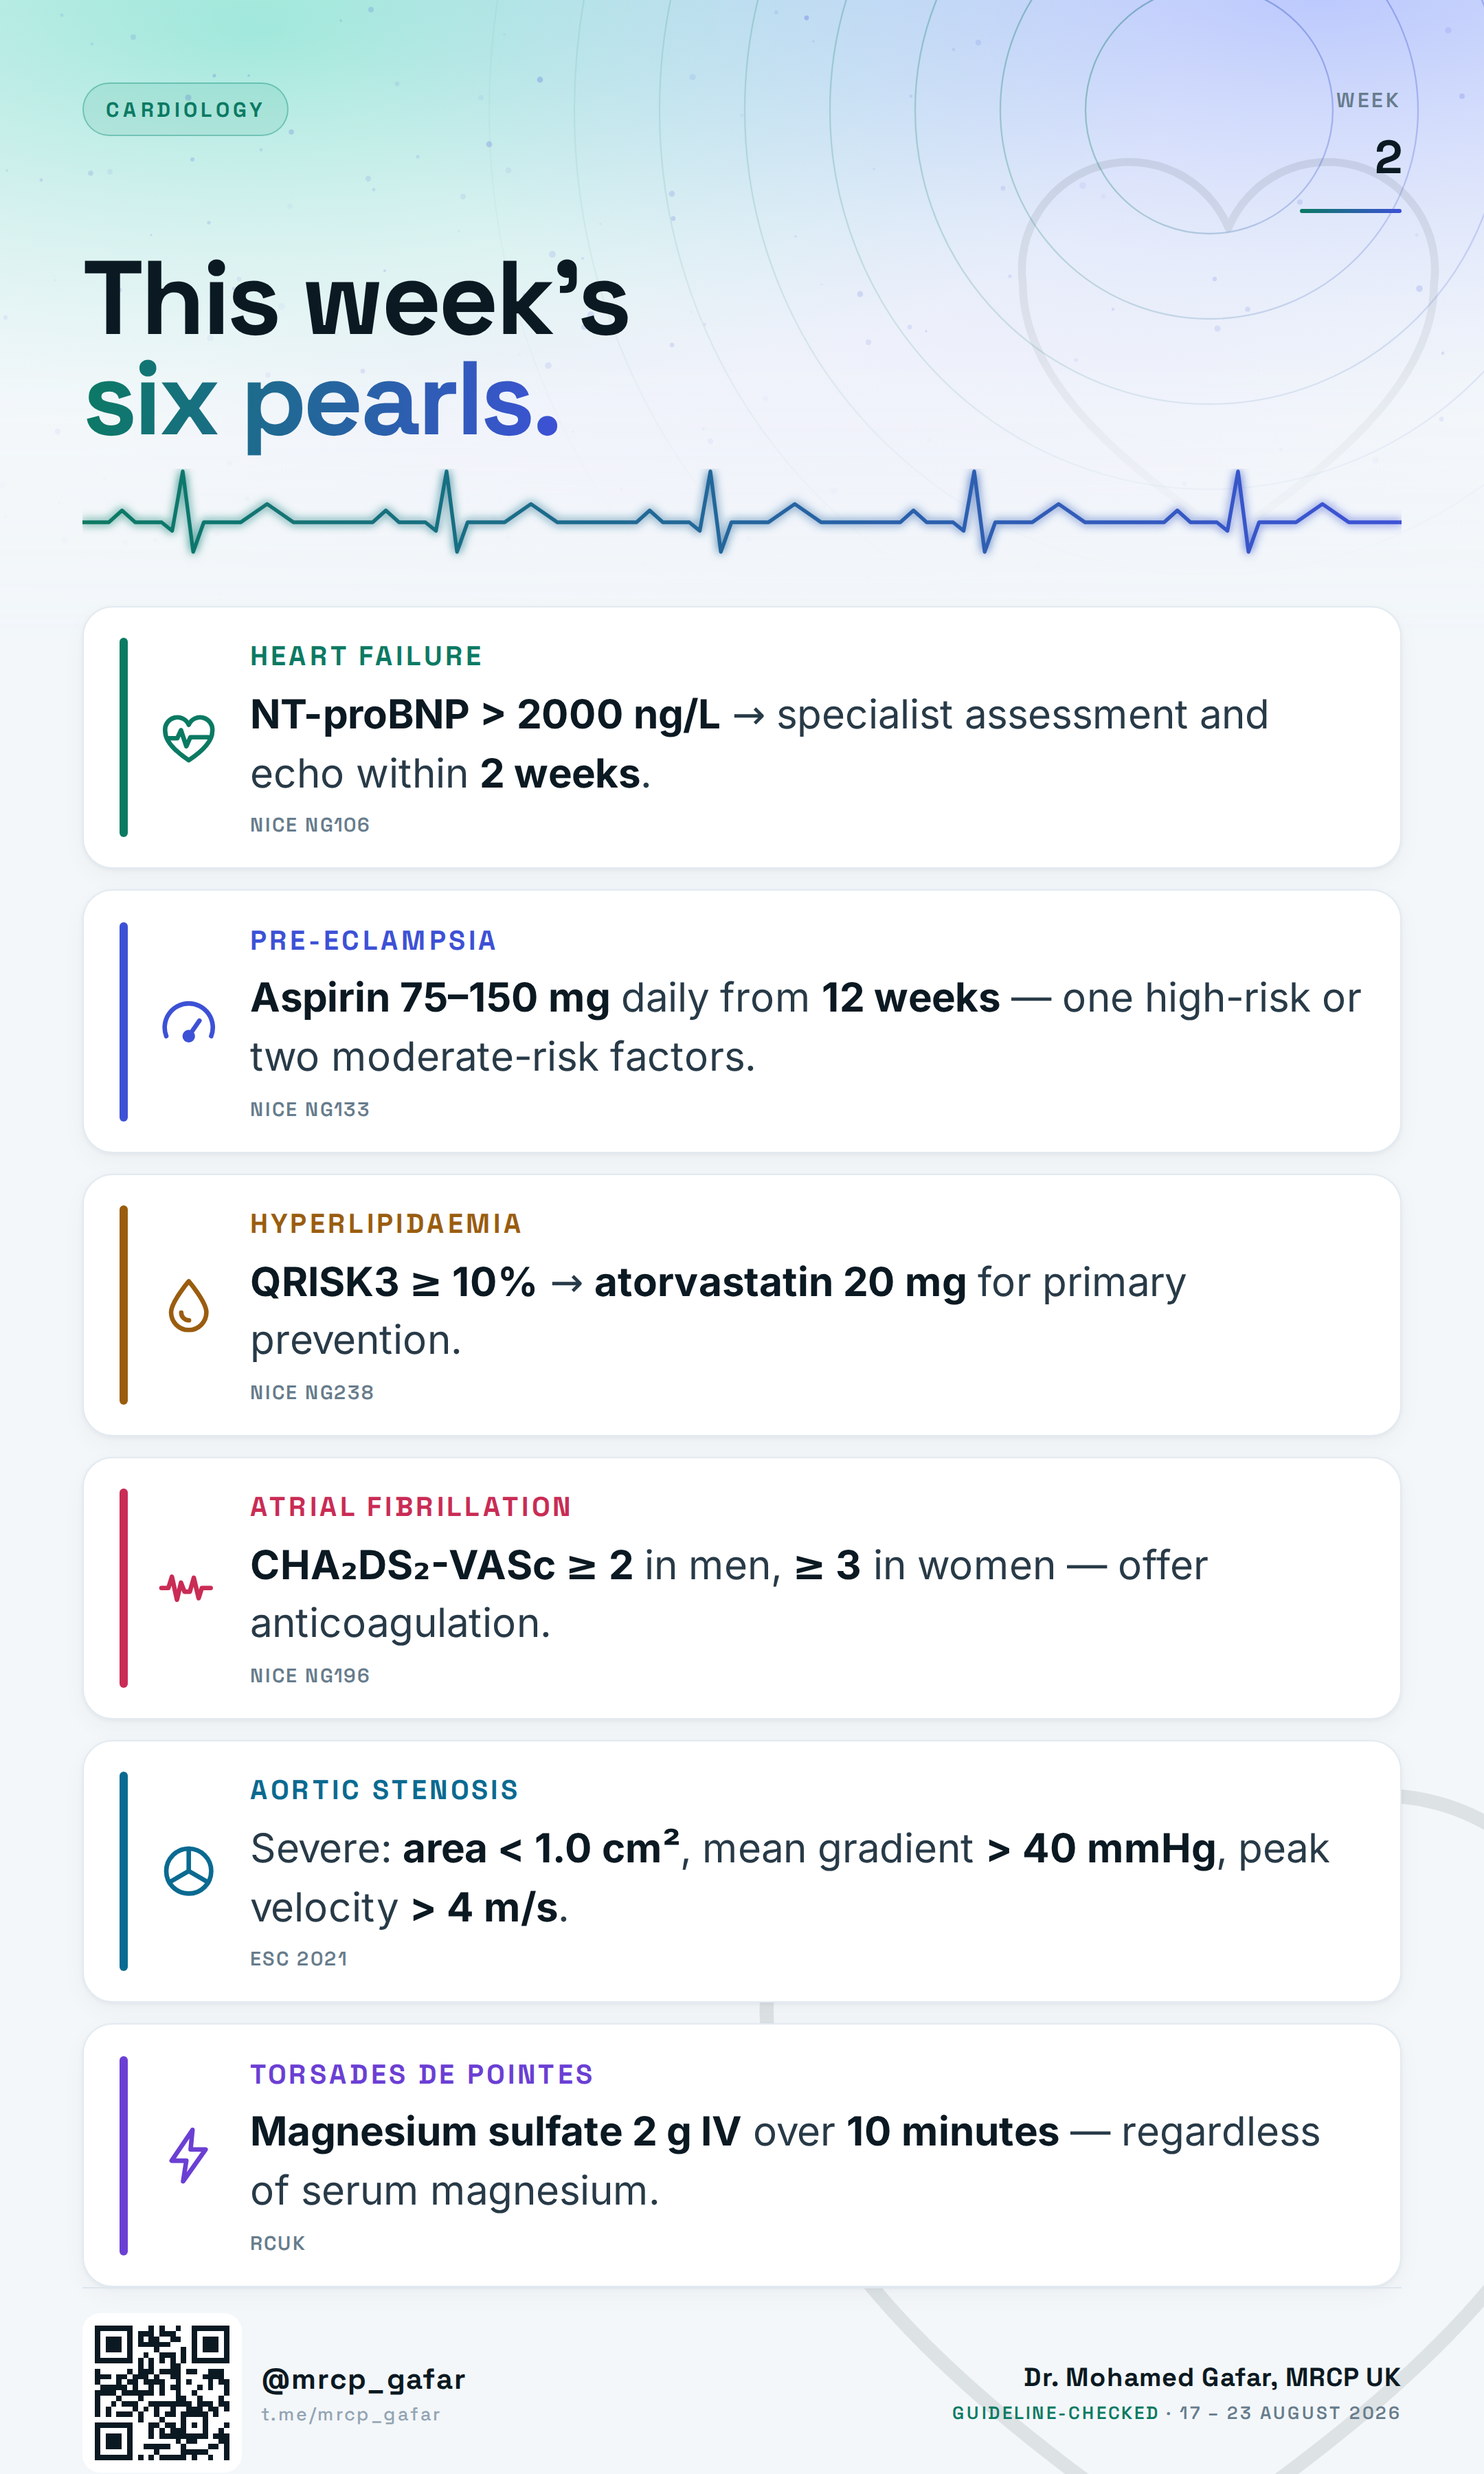
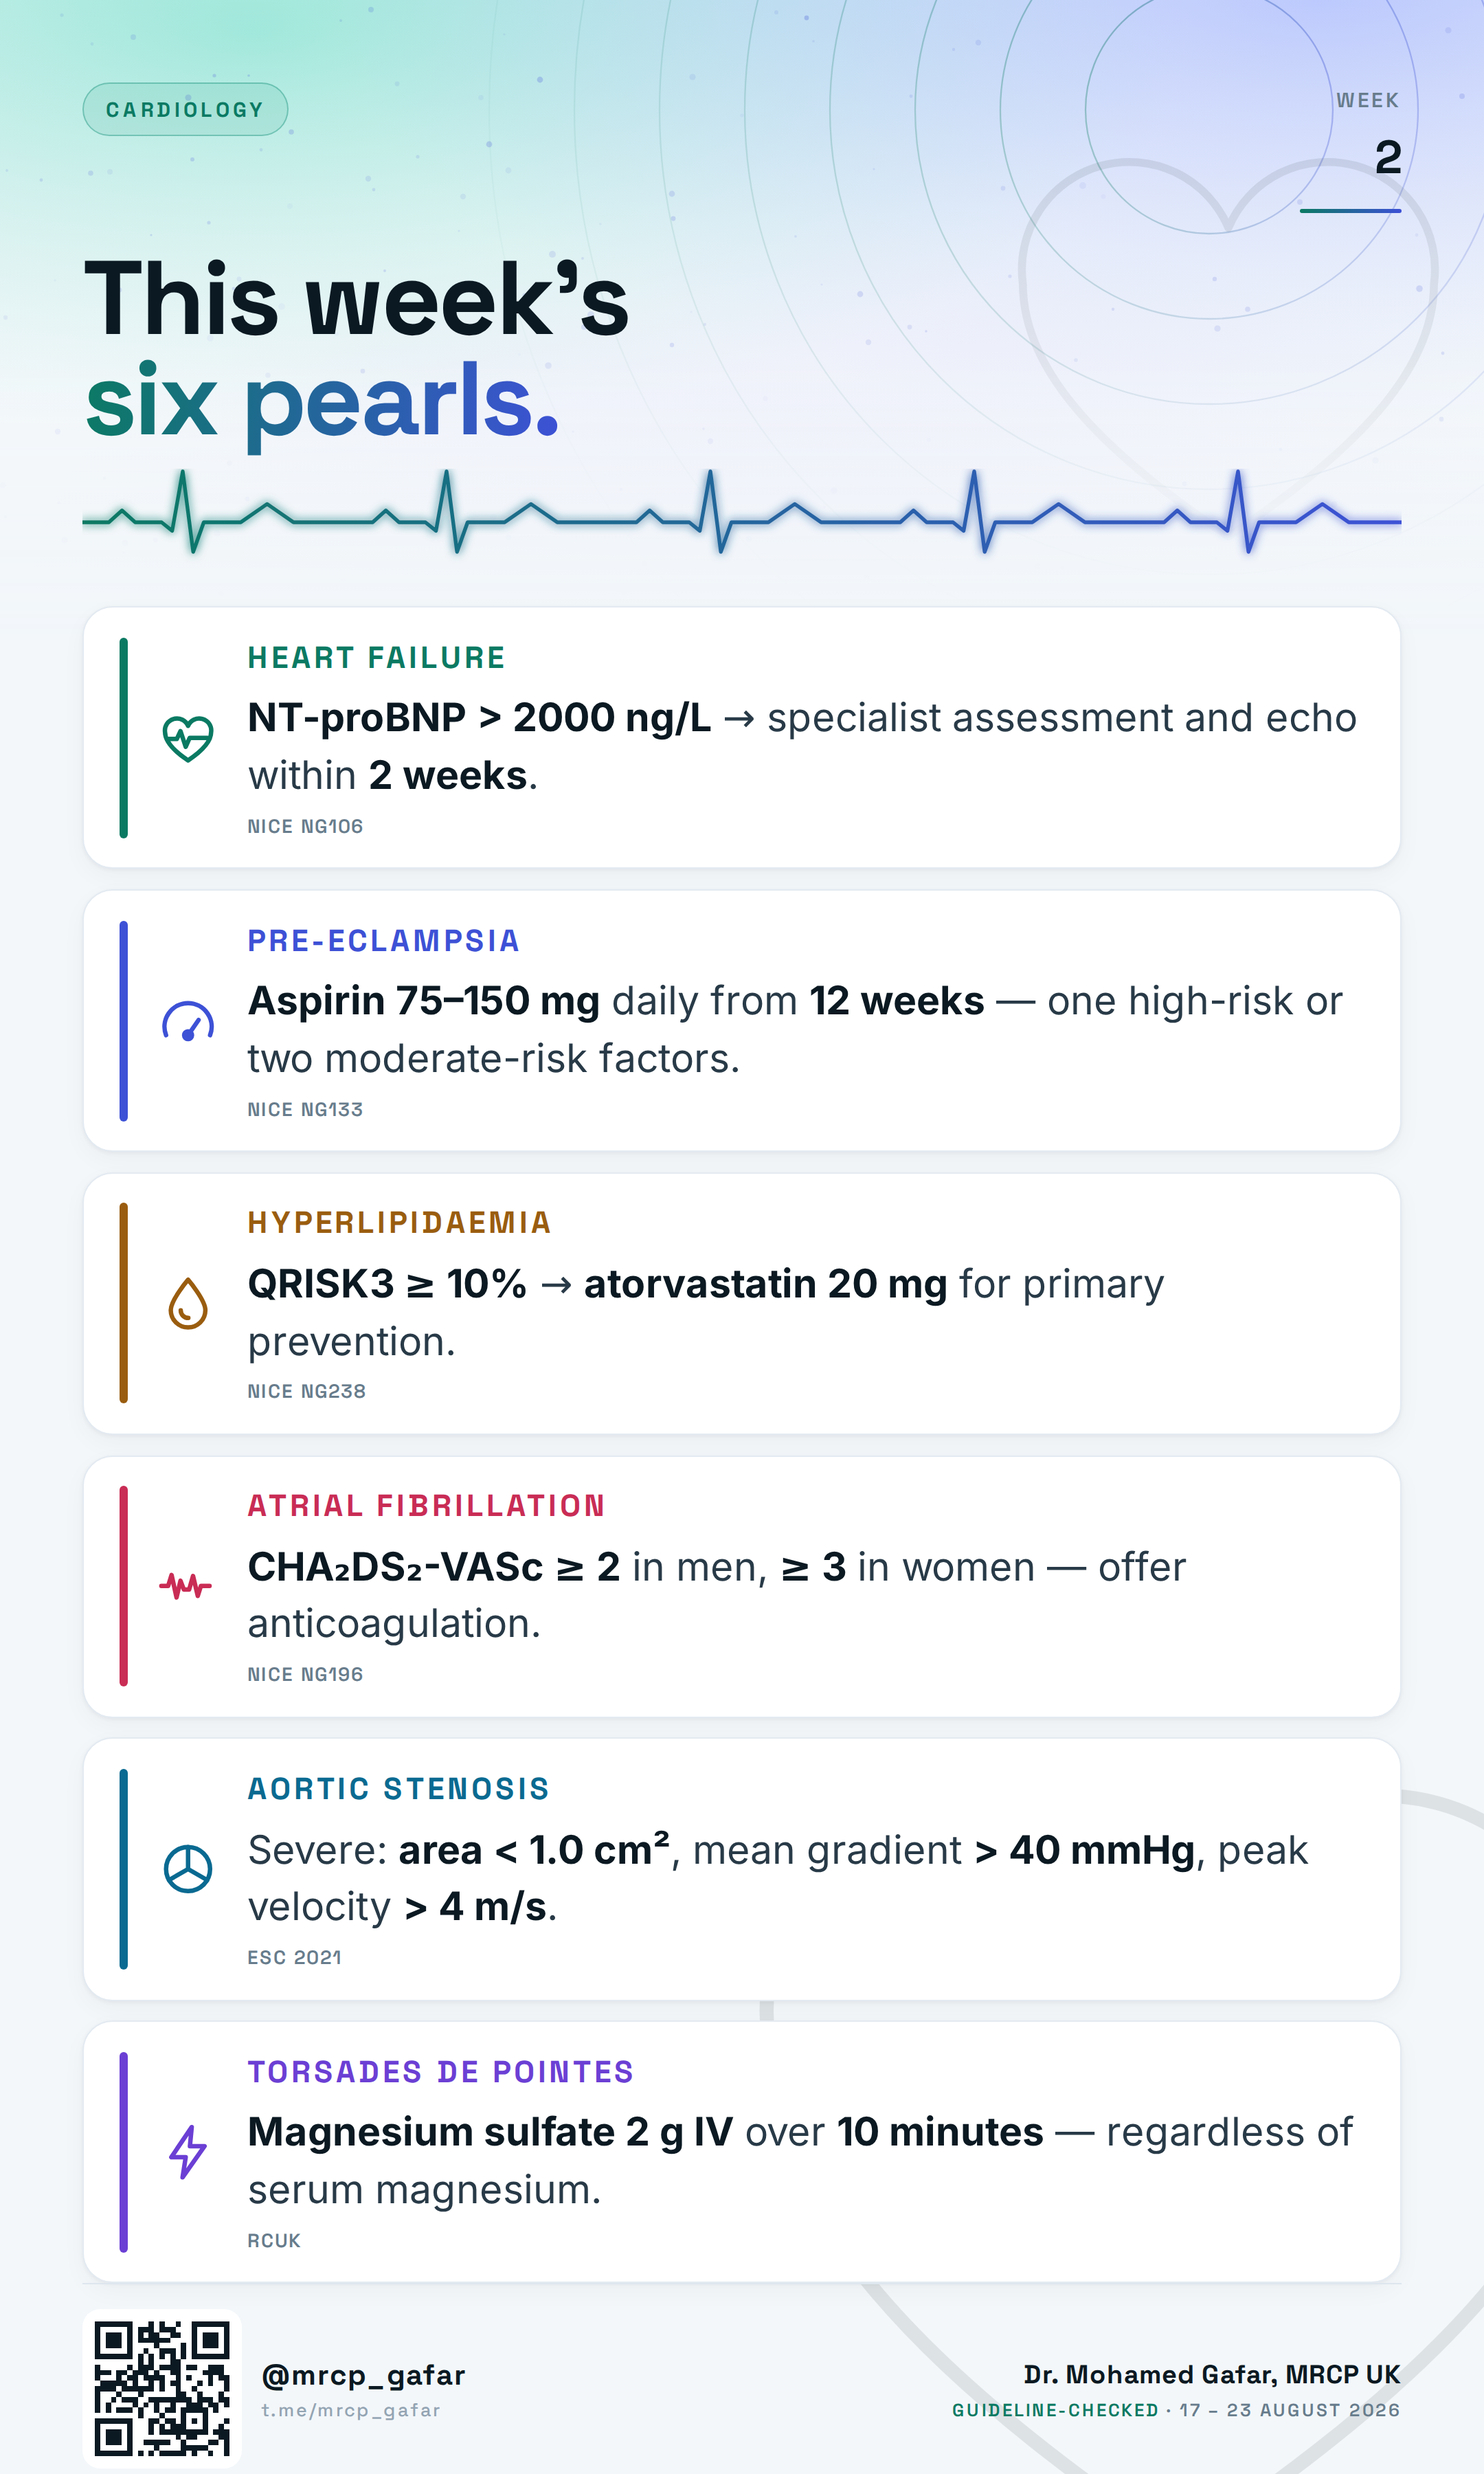
Enlarge the pearl topic label again
0.68 -> 0.78 of the body size, so about 24px. The body text holds at 30.4px this
time - the extra line height came out of card padding rather than the type - and
every pearl count still renders: three at 1350/34.3, five at 1560/30.1, seven at
1980/30.4. QR scans in both themes.

Claude-Session: https://claude.ai/code/session_01GRMwEyQNScHBkncC4dqAhV

diff --git a/weekly-infographic/weekly.css b/weekly-infographic/weekly.css
@@ -72,7 +72,7 @@ svg.ecg{display:block;width:100%;height:78px;margin-top:14px;flex:0 0 78px}
 .accent{border-radius:99px;align-self:stretch}
 .ico{width:calc(var(--tx) * 1.6);height:calc(var(--tx) * 1.6)}
 .ico svg{width:100%;height:100%;display:block}
-.topic{font-size:calc(var(--tx) * .68);letter-spacing:.11em;text-transform:uppercase;font-weight:700;margin-bottom:calc(var(--tx) * .3)}
+.topic{font-size:calc(var(--tx) * .78);letter-spacing:.11em;text-transform:uppercase;font-weight:700;margin-bottom:calc(var(--tx) * .3)}
 .txt{font-family:'Inter','DejaVu Sans',sans-serif;font-size:var(--tx);line-height:1.46;color:var(--ink-2);font-weight:400}
 .txt b{font-weight:700;color:var(--ink)}
 .src{font-size:calc(var(--tx) * .49);color:var(--ink-4);margin-top:7px;letter-spacing:.07em;text-transform:uppercase;font-weight:600}
